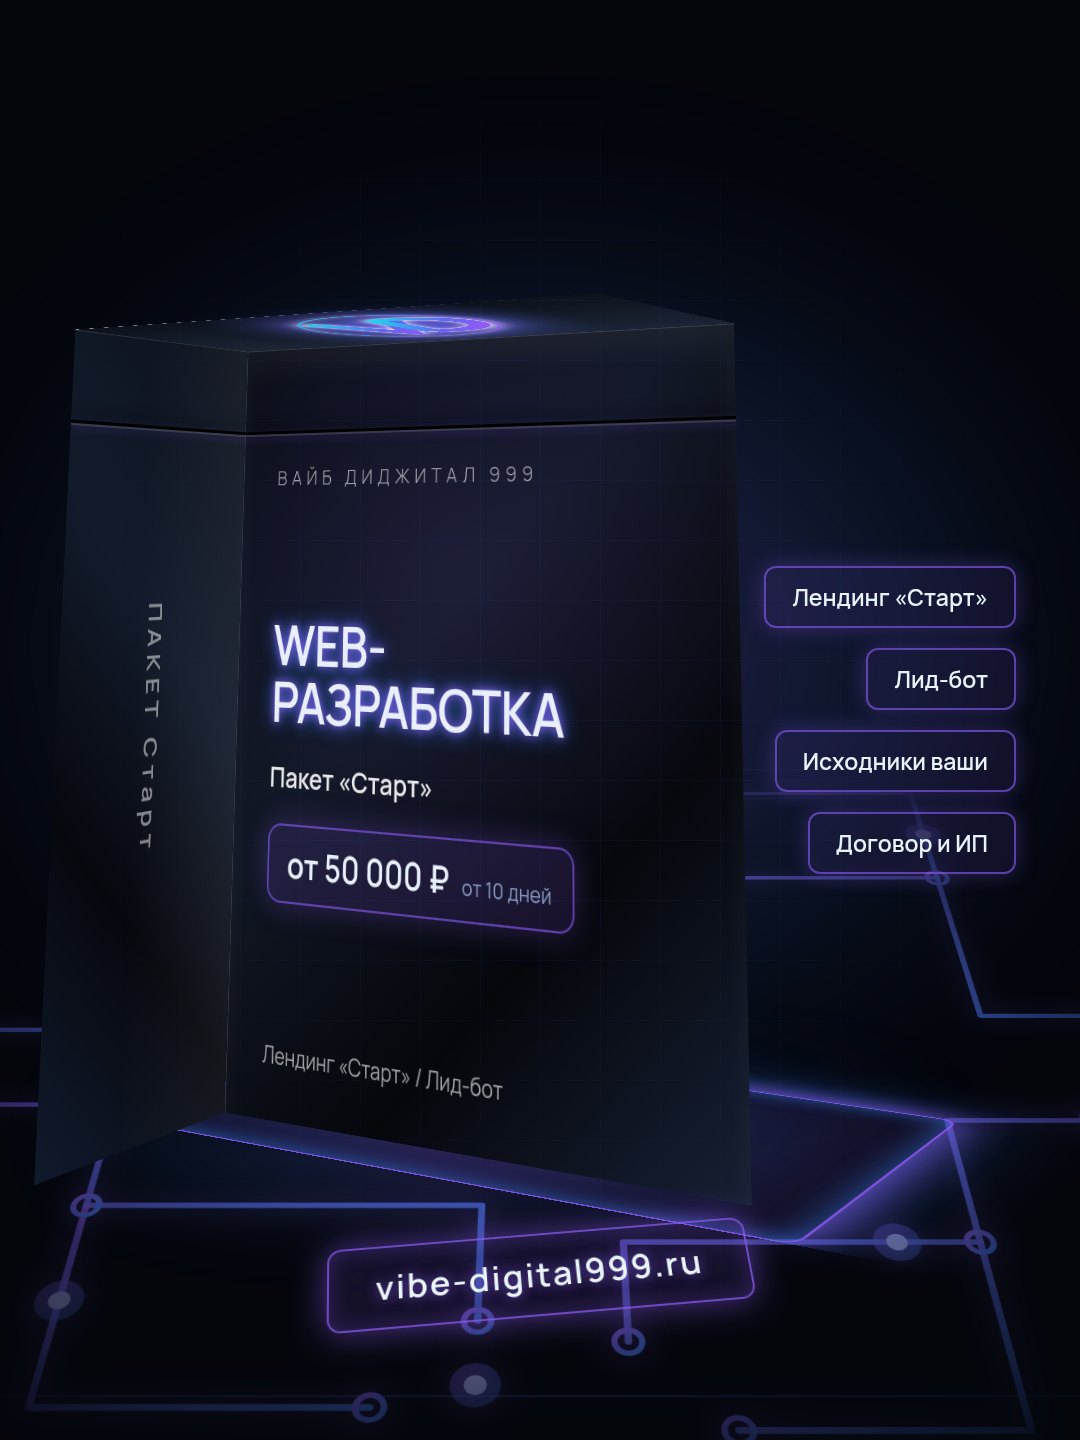
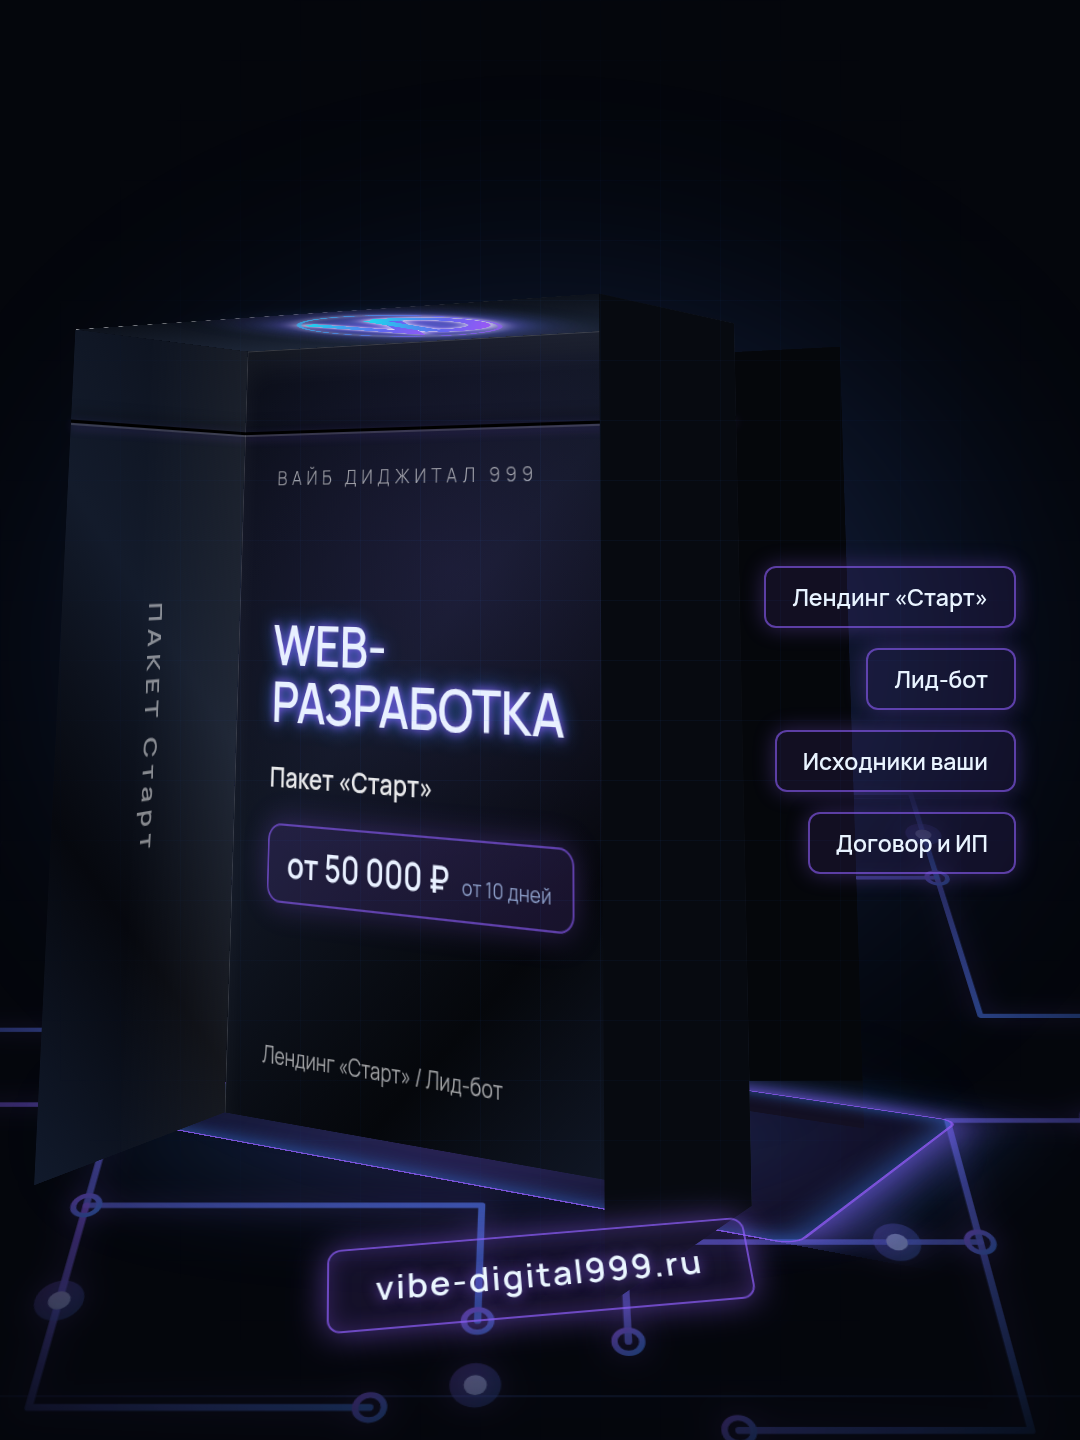
Задняя и правая грани: коробка стала замкнутым телом
Проверено вырезами: дыры на стыке крышки с боковиной нет, оба верхних
угла сходятся. Предложенная высота крышки 120px при глубине 260
недокрыла бы верх.

Замкнутое тело не просвечивает по рёбрам ни при каком угле.

Claude-Session: https://claude.ai/code/session_01ELgwZhZjs3zH5Yv9y5TfEh

Changed region(s): [[0.55, 0.1875, 0.7944, 0.625], [0.55, 0.7188, 0.7333, 0.875]]

diff --git a/marketing/paket-korobka.js b/marketing/paket-korobka.js
@@ -274,7 +274,6 @@ ${fontCss}
     background:
       linear-gradient(90deg, rgba(255,255,255,.06), transparent 60%),
       linear-gradient(135deg,#0B101B 0%,#131B2B 40%,#06080E 70%,#111A2C 100%);
-    box-shadow:inset 0 1px 0 rgba(255,255,255,.12);
     display:flex;align-items:center;justify-content:center}
   /* Бок повёрнут наружу, к зрителю обращён изнанкой — надпись
      зеркалится. Гасится разворотом на 180° вокруг вертикальной оси.
@@ -283,6 +282,20 @@ ${fontCss}
   .box-left span{writing-mode:vertical-lr;transform:rotateY(180deg);
     white-space:nowrap;font-size:26px;font-weight:800;letter-spacing:.24em;
     color:rgba(255,255,255,.5)}
+
+  /* ЗАДНЯЯ И ПРАВАЯ ГРАНИ. Зрителю их не видно, но без них по задним
+     рёбрам просвечивает фон: соседние грани сходятся в линию,
+     и на субпиксельной сетке между ними остаются точки-просветы.
+     На увеличении это читается пунктиром вдоль ребра — именно его
+     легко принять за дыру на стыке. Замкнутое тело не просвечивает
+     нигде и при любом угле. */
+  .box-back{width:var(--shir);height:var(--vys);left:0;top:0;
+    transform:translateZ(calc(-1 * var(--pol)));
+    background:#05070B}
+  .box-right{width:var(--glub);height:var(--vys);right:0;top:0;
+    transform-origin:right center;
+    transform:translateZ(var(--pol)) rotateY(90deg);
+    background:#070A10}
 
   /* Верхняя крышка */
   .box-top{width:var(--shir);height:var(--glub);left:0;top:0;
@@ -397,6 +410,8 @@ ${fontCss}
     <div class="plata">${PLATA(p.id)}</div>
     <div class="box-scene">
     <div class="box">
+      <div class="gran box-back"></div>
+      <div class="gran box-right"></div>
       <div class="gran box-bottom"></div>
       <div class="gran box-left"><span>ПАКЕТ ${p.nazvanie.replace(/[«»]/g, '')}</span></div>
       <div class="gran box-top">${LOGO(p.id)}</div>

diff --git a/TASKS.md b/TASKS.md
@@ -3636,3 +3636,37 @@ GreenSock). Проверено открытием страниц, а не пои
 `translateZ` «грань висит в стороне». Точнее так: силуэт закрывается,
 и на общем плане версия выглядит правдоподобно — вылезает именно
 козырёк крышки, и виден он только на вырезе. Поправка внесена в навык.
+
+### 13 августа, дополнение — «дыра на стыке крышки»
+
+Владелица: у крышки мало глубины, из-за этого на стыке с боковиной
+дыра; предложила увеличить высоту крышки до 120px и `translateZ(60px)`.
+
+**Дыры нет.** Сняты оба верхних угла при увеличении вчетверо — крышка
+сходится и с боковиной, и с лицом, стык чистый. Снимки приложены.
+
+**Предложенная правка сломала бы коробку.** Высота крышки обязана
+равняться глубине, а `translateZ` — половине глубины. У нас глубина
+260px, крышка 260, сдвиг 130 — сходится. Поставить крышке 120 при
+глубине 260 значит недокрыть верх; поставить 120 со сдвигом 60 при
+глубине 260 — тот самый козырёк, который мы разглядывали часом раньше.
+**Хочется коробку толще — менять `--glub`, крышка подтянется сама:
+она читает ту же переменную.**
+
+**Что на стыке действительно есть.** По заднему ребру крышки на сильном
+увеличении видна пунктирная линия — тонкий просвет фона на субпиксельной
+сетке. Именно её легко принять за дыру. Причину до конца не нашёл:
+проверил плату (не она) и незамкнутое тело (не оно).
+
+- [x] `      ` Добавлены задняя и правая грани: зрителю не видны,
+      но замкнутое тело не просвечивает нигде и ни при каком угле.
+      Пунктир это не убрало — значит, причина в другом, но грани
+      оставлены: с ними коробка честнее и устойчивее к смене угла.
+
+**Не доделано:**
+
+- [ ] **Пунктир по заднему ребру крышки.** Виден только при увеличении
+      вчетверо, на обычном размере незаметен. Бисекция начата: плата
+      и незамкнутость исключены. Следующий шаг — проверить, не даёт ли
+      его `filter: drop-shadow` на логотипе крышки и радиальный градиент
+      на ней же.
